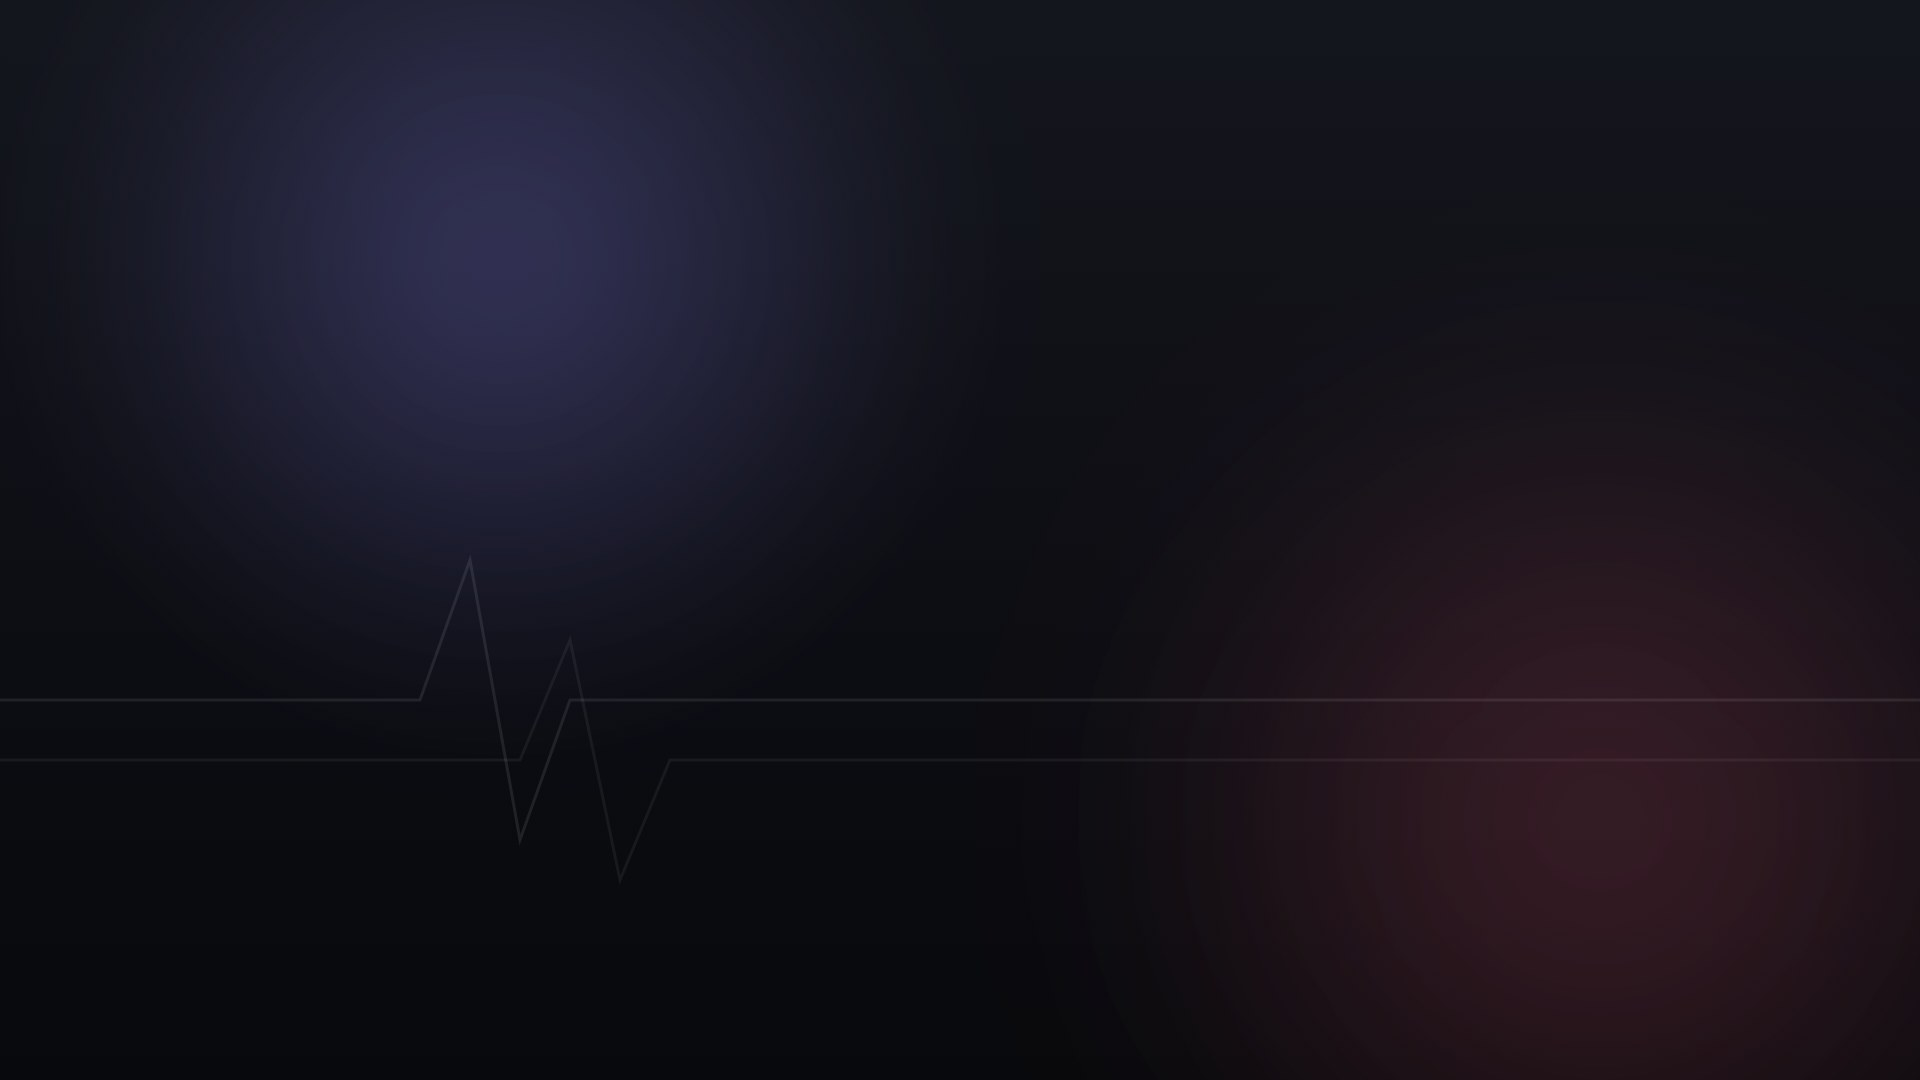
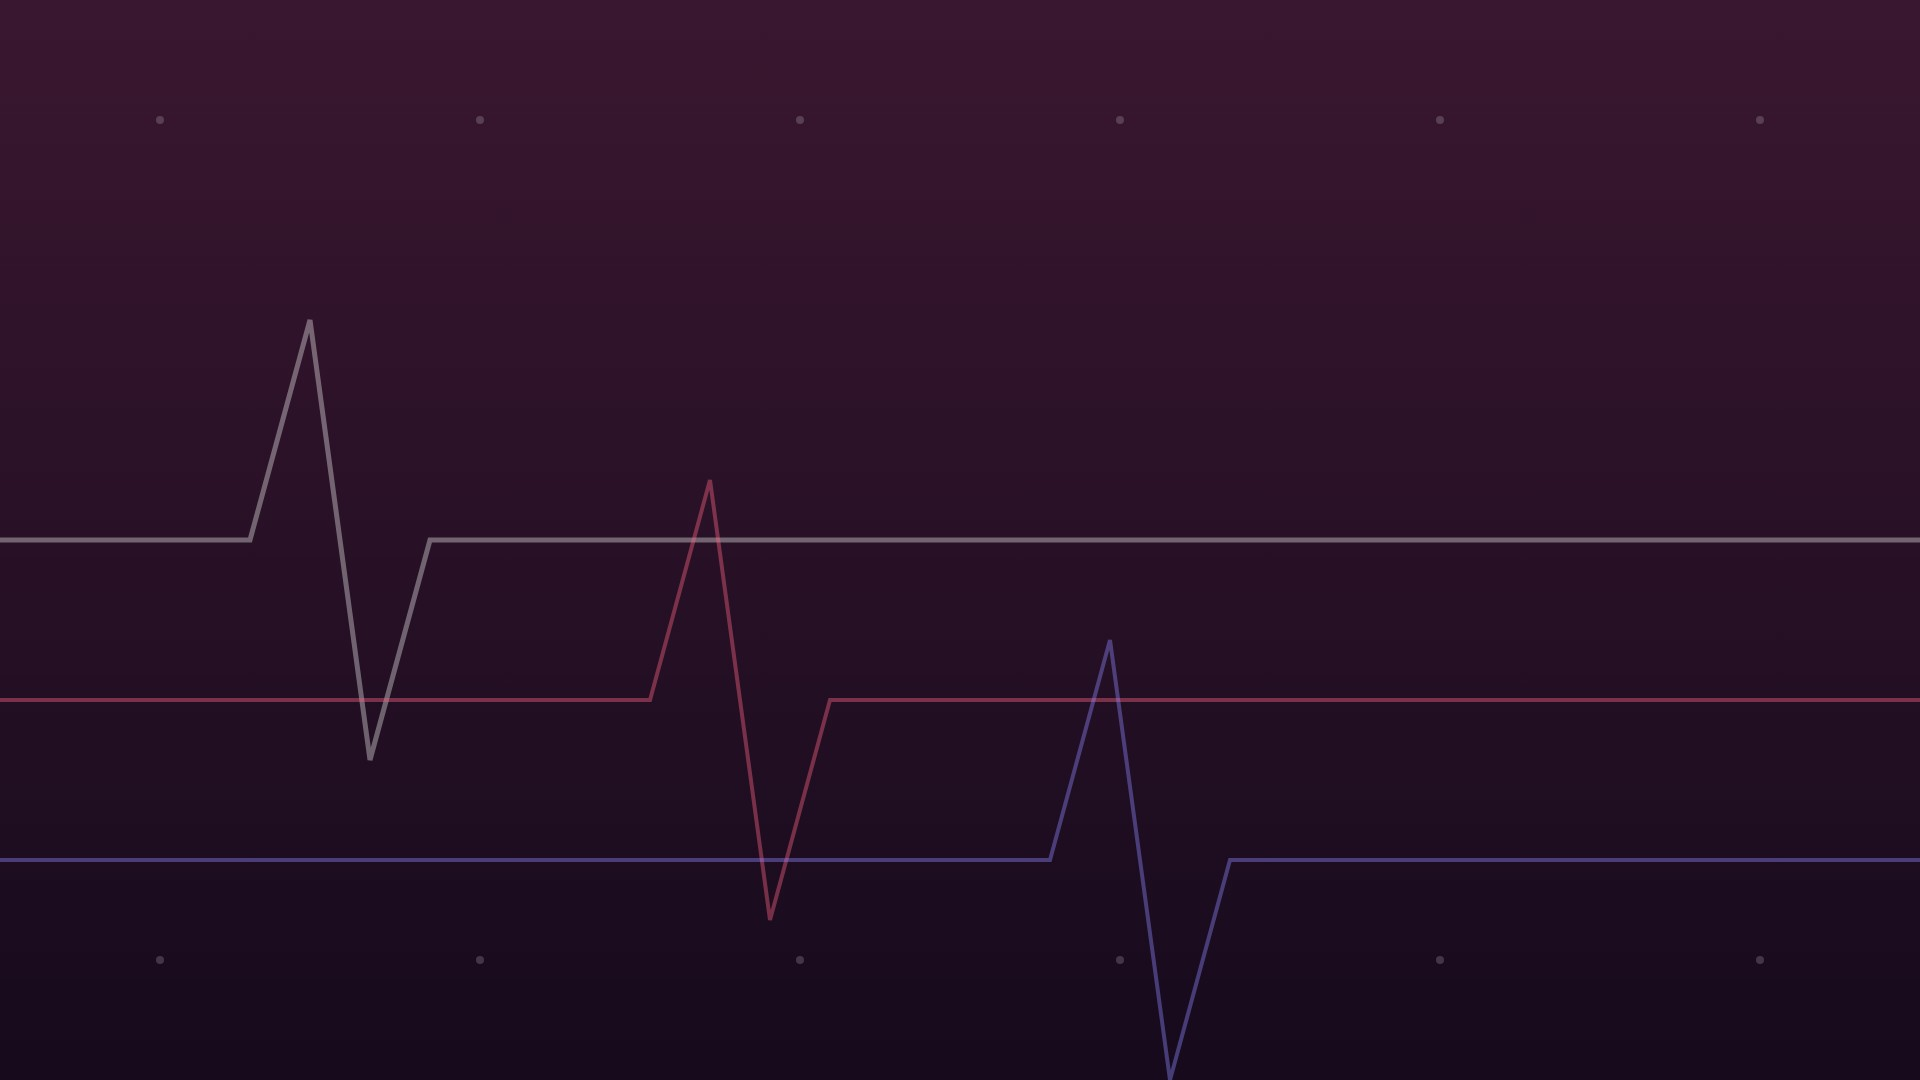
fixed background

diff --git a/src/css/main.scss b/src/css/main.scss
@@ -159,7 +159,7 @@ img {
   min-height: 500px;
   @include flex-center;
   text-align: center;
-  background-image: linear-gradient(rgba(0, 0, 0, 0.5), rgba(0, 0, 0, 0.7)), url("../assets/hero-bg.jpg");
+  background-image: linear-gradient(rgba(0, 0, 0, 0.2), rgba(0, 0, 0, 0.4)), url("../assets/hero-bg.jpg");
   background-size: cover;
   background-position: center;
   background-attachment: fixed;
@@ -239,7 +239,9 @@ img {
 
 // Showcase: fixed background + video
 .showcase {
-  background-image: linear-gradient(rgba(0, 0, 0, 0.6), rgba(0, 0, 0, 0.75)), url("../assets/showcase-bg.jpg");
+  min-height: 90vh;
+  @include flex-center;
+  background-image: linear-gradient(rgba(0, 0, 0, 0.25), rgba(0, 0, 0, 0.4)), url("../assets/showcase-bg.jpg");
   background-size: cover;
   background-position: center;
   background-attachment: fixed;
